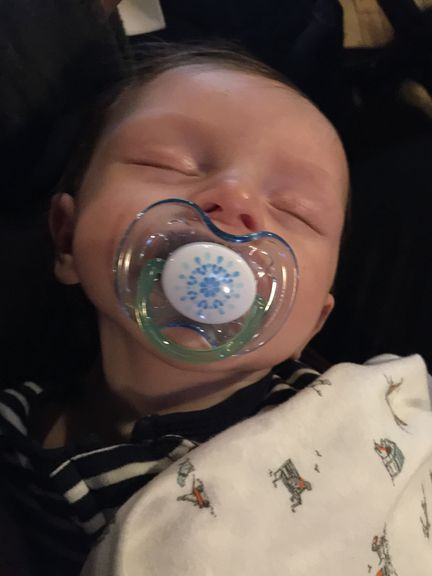
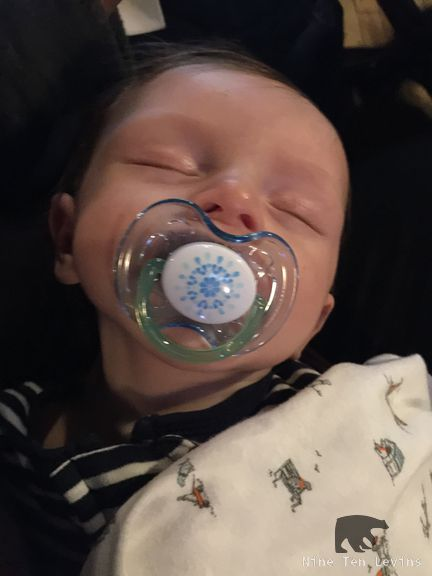
Fixing setting in watermark.

Changed region(s): [[0.7523, 0.875, 0.9028, 1.0], [0.8727, 0.9688, 0.9329, 1.0], [0.7222, 0.9688, 0.7523, 1.0]]

diff --git a/drafts/soyouwanttojointheforeignservicepart1.html b/drafts/soyouwanttojointheforeignservicepart1.html
@@ -157,7 +157,7 @@ role="navigation">
   <div class="panel-heading">
     <h4 class="panel-title">
       <a data-toggle="collapse" href="#series_content">
-        Part <built-in method index of unicode object at 0x1024224b0> of the  series
+        Part <built-in method index of unicode object at 0x10b87d4b0> of the  series
       </a>
     </h4>
   </div>

diff --git a/drafts/soyouwanttojointheforeignservicepart2.html b/drafts/soyouwanttojointheforeignservicepart2.html
@@ -138,7 +138,7 @@ role="navigation">
   <div class="panel-heading">
     <h4 class="panel-title">
       <a data-toggle="collapse" href="#series_content">
-        Part <built-in method index of unicode object at 0x1024222a0> of the  series
+        Part <built-in method index of unicode object at 0x10b87d2a0> of the  series
       </a>
     </h4>
   </div>

diff --git a/drafts/soyouwanttojointheforeignservicepart3.html b/drafts/soyouwanttojointheforeignservicepart3.html
@@ -138,7 +138,7 @@ role="navigation">
   <div class="panel-heading">
     <h4 class="panel-title">
       <a data-toggle="collapse" href="#series_content">
-        Part <built-in method index of unicode object at 0x10242af30> of the  series
+        Part <built-in method index of unicode object at 0x10b885f30> of the  series
       </a>
     </h4>
   </div>
